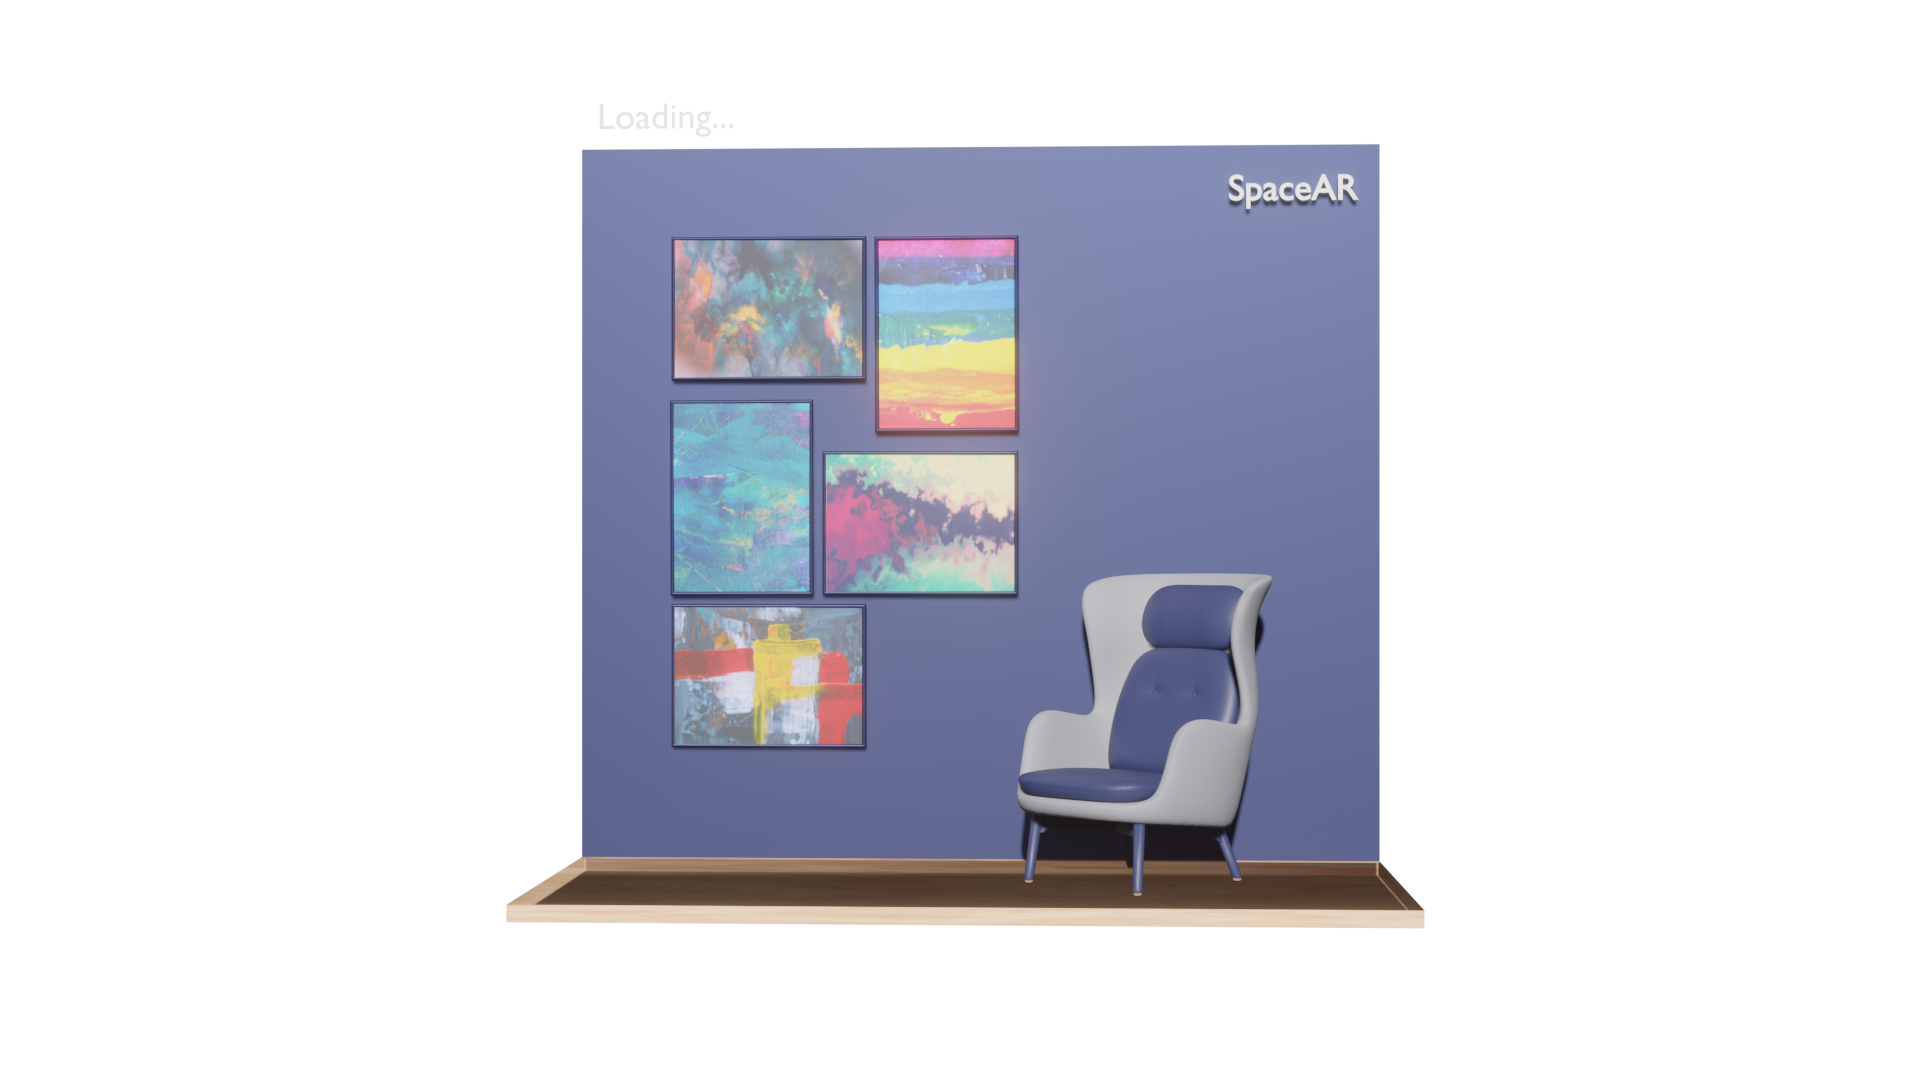
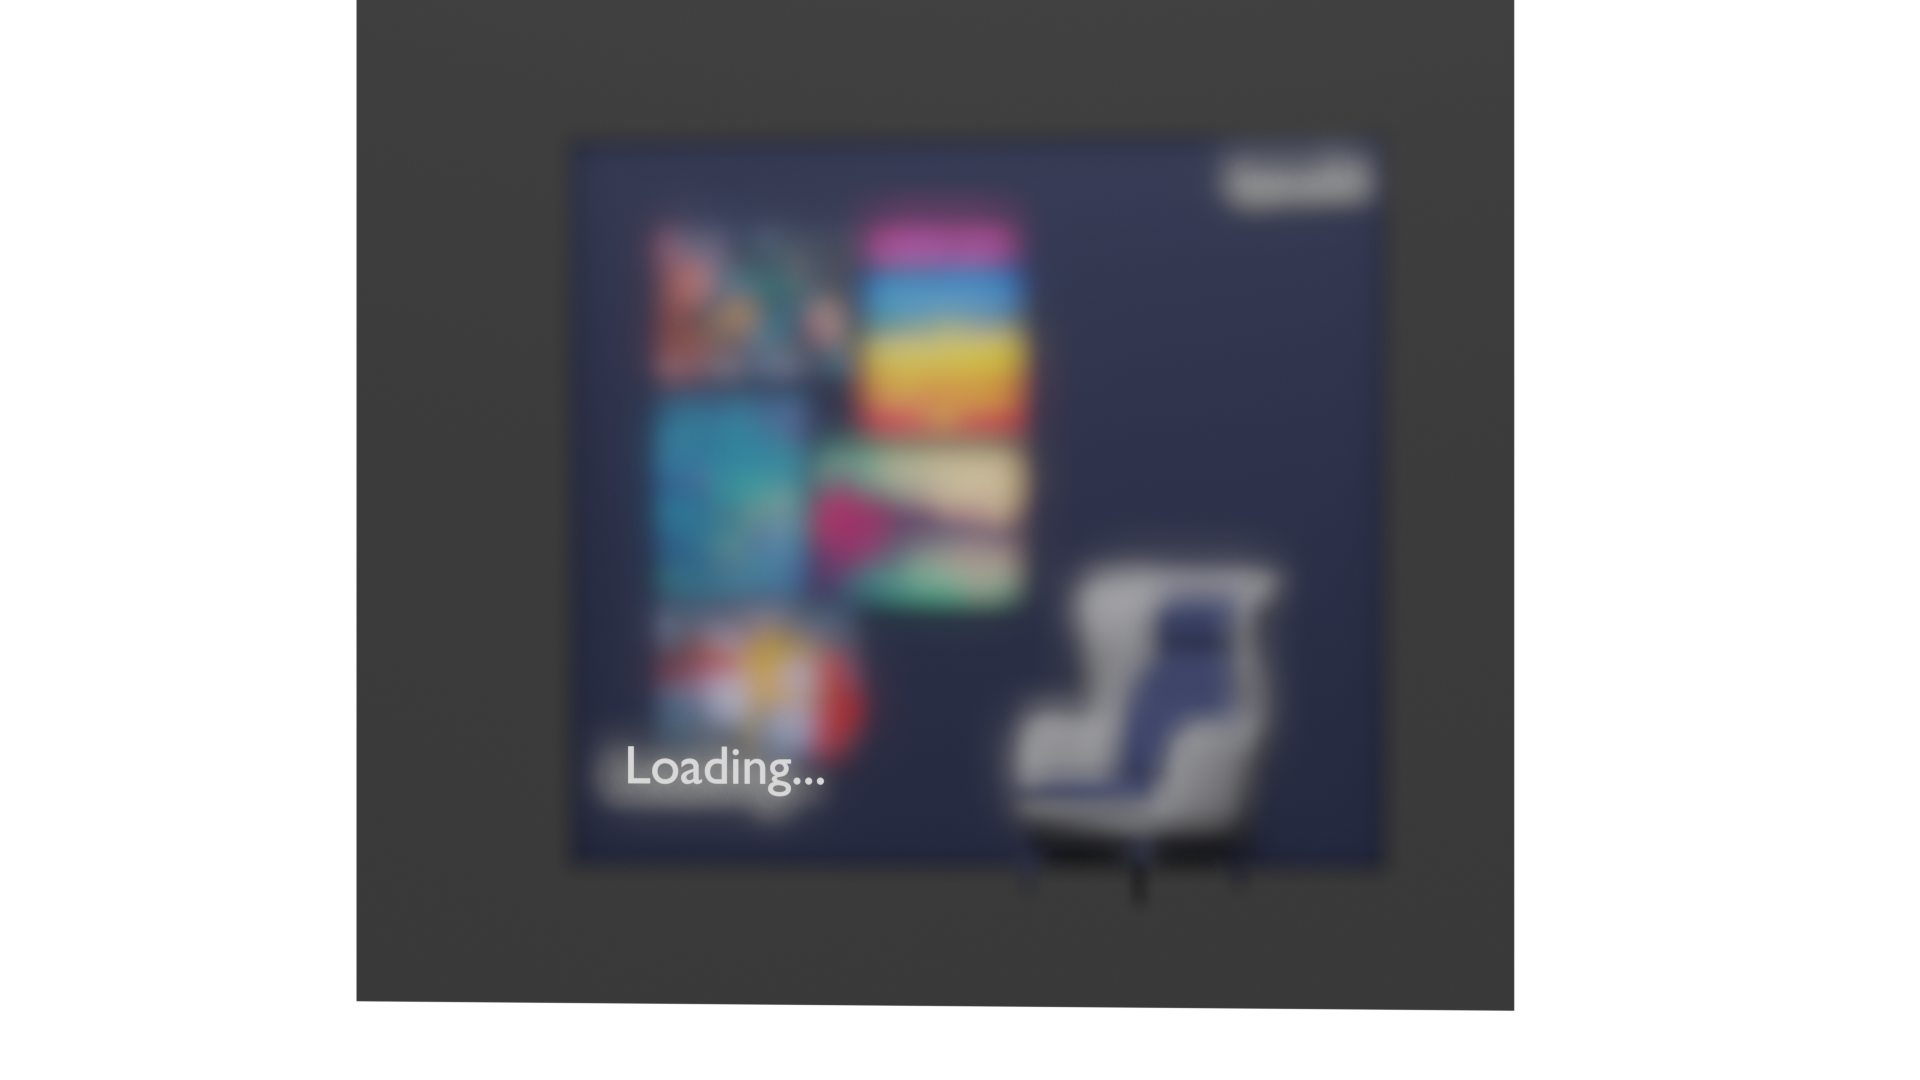
hero transparent png  blurrr

diff --git a/README.md b/README.md
@@ -14,5 +14,5 @@ Allow people to view art work in their space before buying.
 
  - Create Search
  - Create Categories
- - Authentication
- - AR placement
+ - Digital Download
+ 
